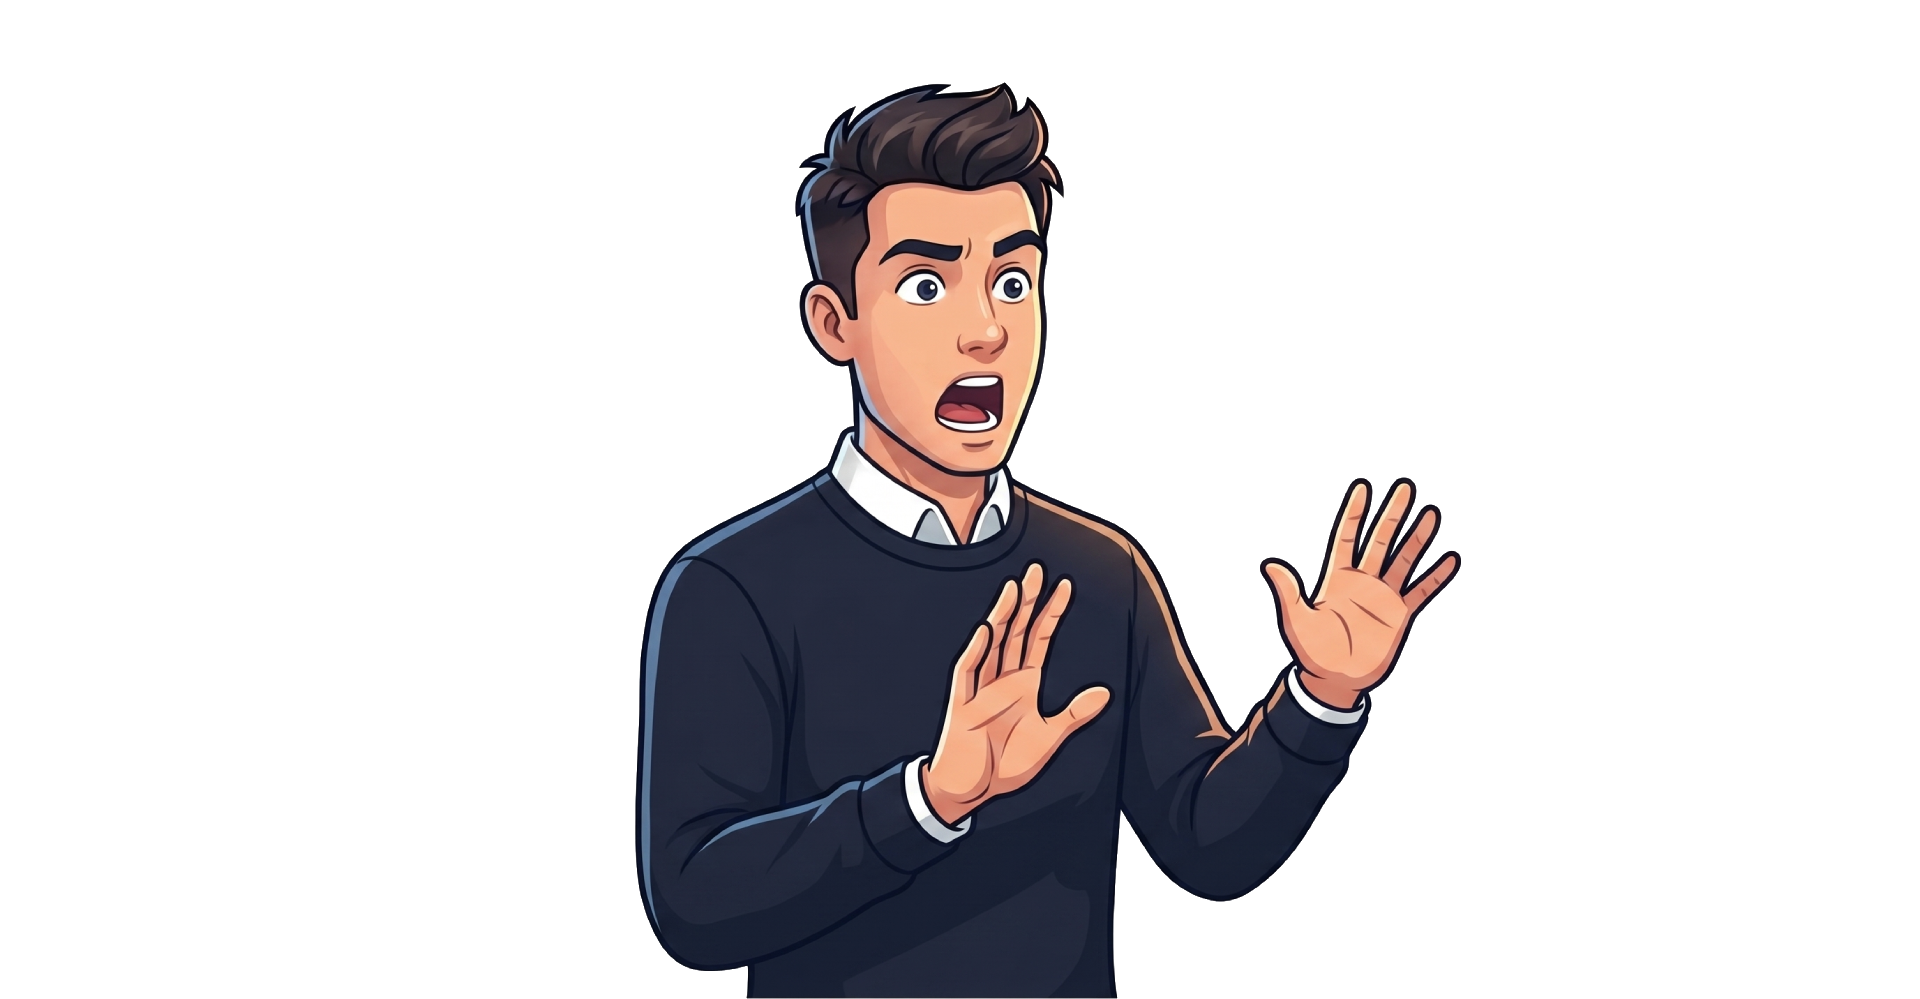
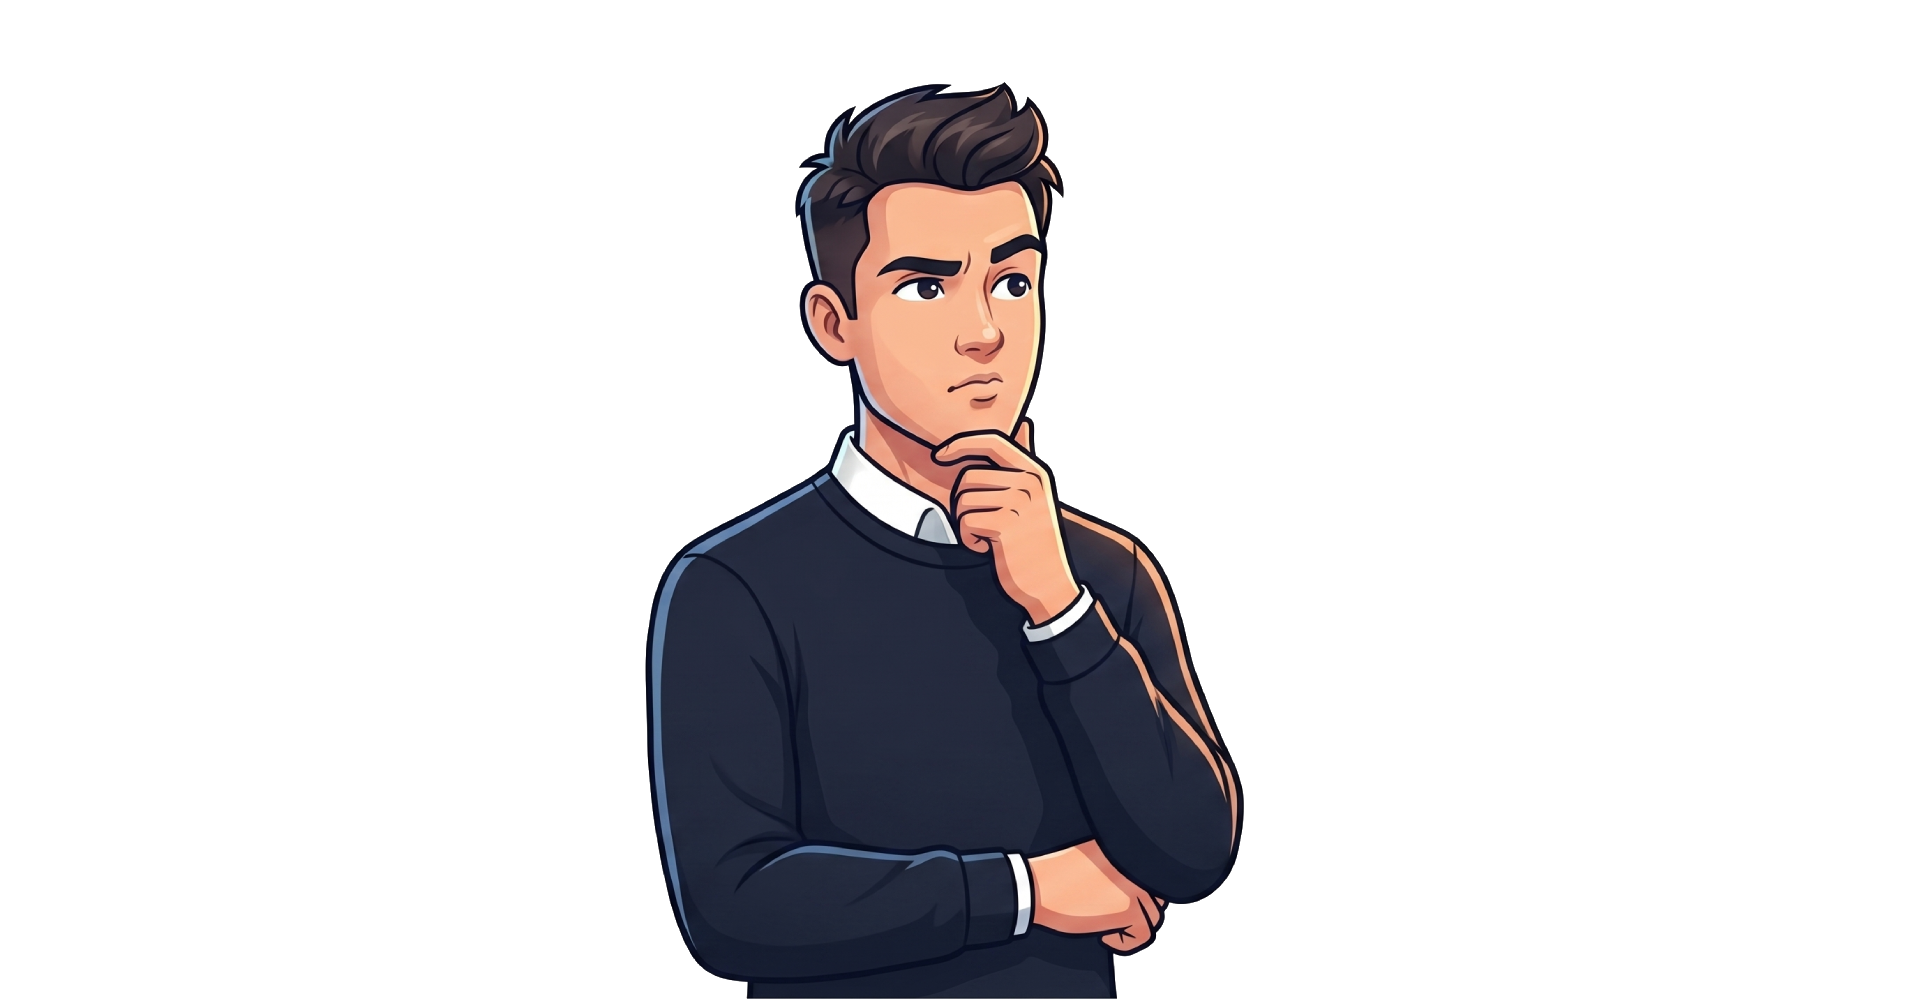
feat(host): Tarea E - renombrar sprites reales, mapear poses a moods y prohibir dinero en misterio

diff --git a/src/guion.py b/src/guion.py
@@ -15,8 +15,13 @@ from pydantic import BaseModel, Field
 
 from . import config
 from .estado import Proyecto
+from .host_anim import normalizar_pose
 
-Pose = Literal["neutro", "explicando", "pensativo", "alerta", "eureka", "senalando", "esceptico", "riendo"]
+Pose = Literal[
+    "explicando", "pensativo", "sorprendido", "esceptico", "dinero", "aprobando", "duda", "senalando",
+    # Alias retrocompatibles para guion.json existentes:
+    "neutro", "alerta", "eureka", "riendo",
+]
 Sfx = Literal["ninguno", "whoosh", "impacto", "tension", "revelacion", "glitch", "ambiente", "digital", "transicion"]
 Mood = Literal["misterio", "tension", "epica", "curiosidad", "calma"]
 Acto = Literal["gancho", "contexto", "conflicto", "profundizacion", "giro", "resolucion", "cta"]
@@ -137,10 +142,12 @@ REGLAS ESTRICTAS DE FORMATO TOP Y DURACIÓN:
 - En la PRIMERA escena de cada puesto, pon en "texto_pantalla" el cartel del puesto en mayúsculas (ej: "#5: NOMBRE DEL CASO").
   En las demás escenas de ese mismo puesto, pon "texto_pantalla" en blanco ("").
 - NO agregues subtítulos de la narración en "texto_pantalla". Solo el título del puesto.
-- Pose del Host:
-  * Cuando se introduce un nuevo puesto (#5, #4...): 'senalando' o 'alerta' o 'eureka'.
-  * Durante las explicaciones técnicas: 'explicando' o 'pensativo'.
-  * En la intro/cierre: 'neutro' o 'riendo'.
+- Pose del Host (campo `pose`, sugerida por escena según la emoción y el mood):
+  * Poses disponibles: `'explicando'` (manos abiertas conversando), `'pensativo'` (mano en la barbilla reflexionando), `'sorprendido'` (impacto/asombro), `'esceptico'` (brazos cruzados analítico), `'duda'` (encogiendo hombros ante una incógnita), `'senalando'` (apuntando al dato o puesto), `'aprobando'` (pulgares arriba, solo cierres positivos), `'dinero'` (billetes en mano).
+  * Cuando se introduce un nuevo puesto (#N): `'senalando'` o `'sorprendido'`.
+  * En misterios sin resolver, paradojas o preguntas abiertas: `'duda'`, `'pensativo'` o `'esceptico'`.
+  * En explicaciones o contexto documental: `'explicando'`.
+  * PROHIBICIÓN ESTRICTA: JAMÁS elijas `'dinero'` ni `'aprobando'` en videos o escenas de misterio, terror, crimen o tensión. `'dinero'` SOLO puede usarse si la escena habla explícitamente de finanzas, fortunas o negocios.
 - host_visible: true al anunciar cada puesto (#X) y en la conclusión; pon host_visible = false cuando se deba ver el clip a pantalla completa.
 - broll_query_en y broll_queries_en:
   * Genera en `broll_queries_en` ENTRE 2 y 3 consultas en inglés (3-5 palabras cada una) pensadas para bancos de video (Pexels/Pixabay) y archivo (YouTube).
@@ -156,7 +163,7 @@ MATERIAL:
 """
 
 
-def estructurar(material: str, minutos: float) -> Guion:
+def estructurar(material: str, minutos: float, tema: str = "") -> Guion:
     palabras = int(round(minutos * config.PALABRAS_POR_MIN))
     palabras_min = int(round(minutos * 135))
     palabras_max = int(round(minutos * 150))
@@ -198,6 +205,7 @@ def estructurar(material: str, minutos: float) -> Guion:
                         esc.broll_queries_en = [esc.broll_query_en]
                     elif esc.broll_queries_en and not esc.broll_query_en:
                         esc.broll_query_en = esc.broll_queries_en[0]
+                    esc.pose = normalizar_pose(esc.pose, mood=esc.music_mood, tema=tema, texto_voz=esc.voz)  # type: ignore[assignment]
                 return guion_obj
             except Exception as e:
                 print(f"⚠ Reintento {intento+1}/3 con modelo {mod} tras aviso: {e}")
@@ -267,7 +275,7 @@ def etapa_guion(p: Proyecto) -> list[str]:
     p.ruta("guion", "investigacion.md").write_text(material, "utf-8")
 
     print(f"🧱 Estructurando en escenas con {config.MODELO_ESTRUCTURA}…")
-    g = estructurar(material, minutos)
+    g = estructurar(material, minutos, tema=p.tema)
 
     if p.datos.get("sin_host", False):
         for e in g.escenas:
@@ -286,14 +294,14 @@ def etapa_guion(p: Proyecto) -> list[str]:
 def _guion_doblaje_md(p: Proyecto, g: Guion) -> str:
     """Genera guía de locución profesional para doblaje humano / teleprompter."""
     tonos_por_pose = {
-        "neutro": "Tono profesional, narración fluida y aplomada",
-        "explicando": "Tono didáctico, enfatizar conceptos técnicos",
+        "explicando": "Tono didáctico, narración fluida y aplomada",
         "pensativo": "Tono reflexivo, ritmo pausado, sospecha",
-        "alerta": "Tono de urgencia, tensión y respiración marcada",
-        "eureka": "Tono entusiasta, revelación, volumen ascendente",
-        "senalando": "Tono asertivo, dirección clara hacia el dato",
-        "esceptico": "Tono interrogativo, ligera ironía o duda",
-        "riendo": "Tono ligero, empatía, sonrisa en la voz",
+        "sorprendido": "Tono de asombro, tensión y revelación impactante",
+        "esceptico": "Tono interrogativo, analítico o de duda razonable",
+        "duda": "Tono enigmático, planteando la incógnita al espectador",
+        "senalando": "Tono asertivo, dirección clara hacia el dato clave",
+        "aprobando": "Tono cercano, conclusión positiva",
+        "dinero": "Tono enfático sobre cifras, impacto económico o escala",
     }
     lineas = [
         f"# 🎙 Guion de Locución y Doblaje Profesional: {p.tema}",

diff --git a/src/host_anim.py b/src/host_anim.py
@@ -5,21 +5,64 @@ el host en la capa de video con FFmpeg.
 """
 from __future__ import annotations
 
+import re
 from pathlib import Path
-from PIL import Image, ImageDraw, ImageFont
+from PIL import Image, ImageDraw
 
 from . import config
 
 COLORES_POSES = {
-    "neutro": (70, 130, 180),
     "explicando": (60, 179, 113),
     "pensativo": (147, 112, 219),
-    "alerta": (220, 20, 60),
-    "eureka": (255, 165, 0),
-    "senalando": (30, 144, 255),
+    "sorprendido": (220, 20, 60),
     "esceptico": (218, 112, 214),
-    "riendo": (255, 215, 0),
+    "dinero": (46, 139, 87),
+    "aprobando": (255, 215, 0),
+    "duda": (70, 130, 180),
+    "senalando": (30, 144, 255),
 }
+
+_PALABRAS_MISTERIO_TERROR = {
+    "misterio", "misterios", "terror", "horror", "paranormal", "macabro", "macabros",
+    "escalofriante", "escalofriantes", "inquietante", "inquietantes", "crimen", "asesinato",
+    "desaparicion", "fantasma", "maldicion", "oscuro", "oscura", "oculto", "siniestro",
+}
+
+_PALABRAS_FINANZAS = {
+    "dinero", "millon", "millones", "fortuna", "riqueza", "finanzas", "negocio", "negocios",
+    "economia", "banco", "estafa", "cripto", "bitcoin", "inversion", "precio", "billonario",
+    "millonario", "sueldo", "dolar", "dolares", "empresa", "acciones",
+}
+
+
+def normalizar_pose(pose: str, mood: str = "misterio", tema: str = "", texto_voz: str = "") -> str:
+    """Resuelve alias heredados y valida que la pose sea coherente con el mood y el tema.
+    Prohíbe tajantemente 'dinero' en temas/moods de misterio o terror."""
+    p = (pose or "").strip().lower()
+    p = config.POSE_ALIASES.get(p, p)
+    if p not in config.POSES:
+        p = "explicando"
+
+    contexto_tokens = set(re.findall(r"[a-záéíóúñ]+", f"{tema} {texto_voz}".lower()))
+    # Quitar tildes para comparación simple
+    contexto_limpio = {
+        t.translate(str.maketrans("áéíóú", "aeiou")) for t in contexto_tokens
+    }
+    es_tema_misterio = (mood in ("misterio", "tension")) or bool(contexto_limpio & _PALABRAS_MISTERIO_TERROR)
+    es_contexto_finanzas = bool(contexto_limpio & _PALABRAS_FINANZAS)
+
+    if p == "dinero":
+        if es_tema_misterio or not es_contexto_finanzas:
+            return "sorprendido" if mood in ("misterio", "tension") else "senalando"
+
+    permitidas = config.POSES_POR_MOOD.get(mood, config.POSES)
+    if p not in permitidas and not (p == "dinero" and es_contexto_finanzas and not es_tema_misterio):
+        reemplazos = {
+            "aprobando": "explicando",
+            "dinero": "sorprendido",
+        }
+        p = reemplazos.get(p, permitidas[0] if permitidas else "explicando")
+    return p
 
 
 def asegurar_assets_host_base() -> None:
@@ -33,43 +76,36 @@ def asegurar_assets_host_base() -> None:
             if ruta.exists():
                 continue
             
-            # Crear imagen transparente RGBA
             img = Image.new("RGBA", (500, 750), (0, 0, 0, 0))
             draw = ImageDraw.Draw(img)
-            
-            # Cuerpo / torso estilizado
             draw.rounded_rectangle([100, 350, 400, 740], radius=40, fill=(30, 30, 38, 255), outline=(20, 20, 25), width=5)
-            # Cabeza
             draw.ellipse([150, 120, 350, 340], fill=(245, 220, 195, 255), outline=(40, 40, 40), width=5)
-            # Pelo / Estilo cómic
             draw.arc([140, 100, 360, 260], start=180, end=360, fill=(40, 30, 30, 255), width=24)
-            # Ojos
             draw.ellipse([200, 200, 230, 230], fill=(30, 30, 30))
             draw.ellipse([270, 200, 300, 230], fill=(30, 30, 30))
-            
-            # Boca (según estado)
             if boca == "abierta":
                 draw.chord([220, 260, 280, 300], start=0, end=180, fill=(180, 40, 40), outline=(50, 20, 20), width=3)
             else:
                 draw.line([225, 275, 275, 275], fill=(50, 20, 20), width=5)
-                
-            # Gafas / Accesorio de Analista
             draw.rectangle([190, 195, 240, 235], outline=(0, 0, 0), width=4)
             draw.rectangle([260, 195, 310, 235], outline=(0, 0, 0), width=4)
             draw.line([240, 215, 260, 215], fill=(0, 0, 0), width=4)
-            
-            # Placa / Insignia de Pose
             draw.rounded_rectangle([140, 430, 360, 490], radius=15, fill=color + (255,), outline=(255, 255, 255), width=3)
             draw.text((160, 445), f"HOST: {pose.upper()}", fill=(255, 255, 255))
-            
             img.save(ruta, "PNG")
 
 
-def obtener_sprite(pose: str, boca: str = "cerrada") -> Path:
-    """Devuelve la ruta al sprite del Host para una pose y estado de boca."""
+def obtener_sprite(
+    pose: str,
+    boca: str = "cerrada",
+    mood: str = "misterio",
+    tema: str = "",
+    texto_voz: str = "",
+) -> Path:
+    """Devuelve la ruta al sprite del Host validando pose contra mood y tema."""
     asegurar_assets_host_base()
-    p = pose if pose in config.POSES else "neutro"
+    p = normalizar_pose(pose, mood=mood, tema=tema, texto_voz=texto_voz)
     ruta = config.HOST_DIR / f"{p}_{boca}.png"
     if not ruta.exists():
-        ruta = config.HOST_DIR / f"neutro_cerrada.png"
+        ruta = config.HOST_DIR / "explicando_cerrada.png"
     return ruta

diff --git a/src/config.py b/src/config.py
@@ -59,7 +59,20 @@ MINUTOS_DEFAULT = 8.5           # >= 8:00 habilita mid-rolls
 TOLERANCIA_DURACION = 0.12      # ±12% de margen al validar duración post-TTS
 
 # --- Vocabularios cerrados (el LLM solo puede elegir de aquí) ---
-POSES = ["neutro", "explicando", "pensativo", "alerta", "eureka", "senalando", "esceptico", "riendo"]
+POSES = ["explicando", "pensativo", "sorprendido", "esceptico", "dinero", "aprobando", "duda", "senalando"]
+POSE_ALIASES = {
+    "neutro": "explicando",
+    "alerta": "sorprendido",
+    "eureka": "sorprendido",
+    "riendo": "aprobando",
+}
+POSES_POR_MOOD: dict[str, list[str]] = {
+    "misterio": ["explicando", "pensativo", "sorprendido", "esceptico", "duda", "senalando"],
+    "tension": ["sorprendido", "esceptico", "pensativo", "explicando", "duda", "senalando"],
+    "epica": ["explicando", "sorprendido", "senalando", "pensativo", "aprobando"],
+    "curiosidad": ["explicando", "pensativo", "sorprendido", "duda", "senalando", "esceptico", "aprobando"],
+    "calma": ["explicando", "pensativo", "aprobando", "senalando"],
+}
 SFX_CATEGORIAS = ["ninguno", "whoosh", "impacto", "tension", "revelacion", "glitch", "ambiente", "digital", "transicion"]
 MUSIC_MOODS = ["misterio", "tension", "epica", "curiosidad", "calma"]
 ACTOS = ["gancho", "contexto", "conflicto", "profundizacion", "giro", "resolucion", "cta"]

diff --git a/src_tiktok/render_tt.py b/src_tiktok/render_tt.py
@@ -134,9 +134,9 @@ def etapa_render_tiktok(p: Proyecto, guion: GuionTikTok, duraciones: dict[int, f
             
         out_v = temp_dir / f"clip_v_{esc.id:03d}.mp4"
         
-        # Avatar del host
-        pose_nombre = esc.pose_host if esc.pose_host in config.POSES else "alerta"
-        host_png = config.HOST_DIR / f"{pose_nombre}_cerrada.png"
+        # Avatar del host validado por mood/tema
+        from src.host_anim import obtener_sprite
+        host_png = obtener_sprite(esc.pose_host, boca="cerrada", mood="misterio", tema=p.tema, texto_voz=esc.voz)
 
         render_clip_vertical(ffmpeg, broll_f, host_png, dur, out_v)
         clips_v.append(out_v)
@@ -154,7 +154,7 @@ def etapa_render_tiktok(p: Proyecto, guion: GuionTikTok, duraciones: dict[int, f
         ffmpeg, "-y",
         "-f", "concat", "-safe", "0",
         "-i", str(concat_txt),
-        "-vf", f"ass='{ruta_ass_esc}'",
+        "-vf", f"ass={ruta_ass_esc}",
         "-c:v", "libx264", "-preset", "veryfast", "-pix_fmt", "yuv420p",
         "-an",
         str(video_mudo)

diff --git a/src/render.py b/src/render.py
@@ -226,9 +226,13 @@ def renderizar_clip_visual(p: Proyecto, esc: Escena, duracion: float, destino_mp
     fondo_es_video = broll_mp4.exists() and es_video_valido(broll_mp4)
     fondo_archivo = broll_mp4 if fondo_es_video else (broll_jpg if broll_jpg.exists() else None)
 
-    # Host personalizado según la pose (salvo si se desactiva explícitamente)
+    # Host personalizado según la pose validada contra el mood y tema (salvo si se desactiva explícitamente)
     sin_host = p.datos.get("sin_host", False)
-    host_sprite = obtener_sprite(esc.pose, boca="cerrada") if (esc.host_visible and not sin_host) else None
+    host_sprite = (
+        obtener_sprite(esc.pose, boca="cerrada", mood=esc.music_mood, tema=p.tema, texto_voz=esc.voz)
+        if (esc.host_visible and not sin_host)
+        else None
+    )
 
     inputs = []
     filtros = []

diff --git a/src_tiktok/guion_tt.py b/src_tiktok/guion_tt.py
@@ -19,7 +19,7 @@ class EscenaTikTok(BaseModel):
     voz: str = Field(description="Narración ultrarrápida (5 a 12 palabras)")
     broll_query_en: str = Field(description="Búsqueda para clips reales de redes sociales, noticias de archivo, entrevistas o metraje viral en YouTube/TikTok (ej: 'diddy court hearing footage news', 'diddy mansion fbi raid abc')")
     texto_destacado: str = Field(description="1 a 3 palabras clave en mayúsculas para subtítulo gigante")
-    pose_host: str = Field(default="alerta", description="alerta, senalando, pensativo, explicando, eureka, riendo")
+    pose_host: str = Field(default="sorprendido", description="sorprendido, senalando, pensativo, explicando, esceptico, duda, aprobando")
     sfx: str = Field(default="whoosh", description="whoosh, impacto, tension, revelacion, glitch, teclado, ninguno")
 
 
